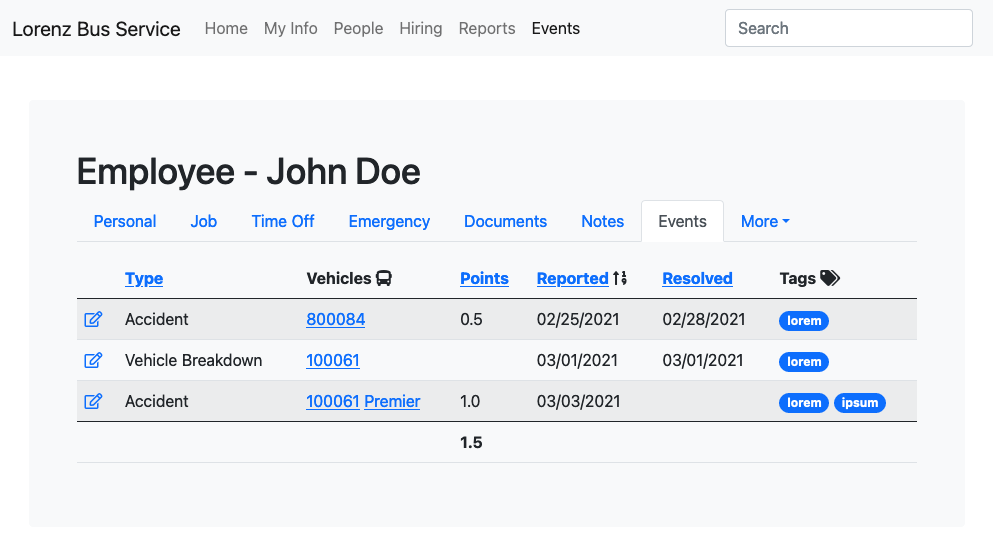
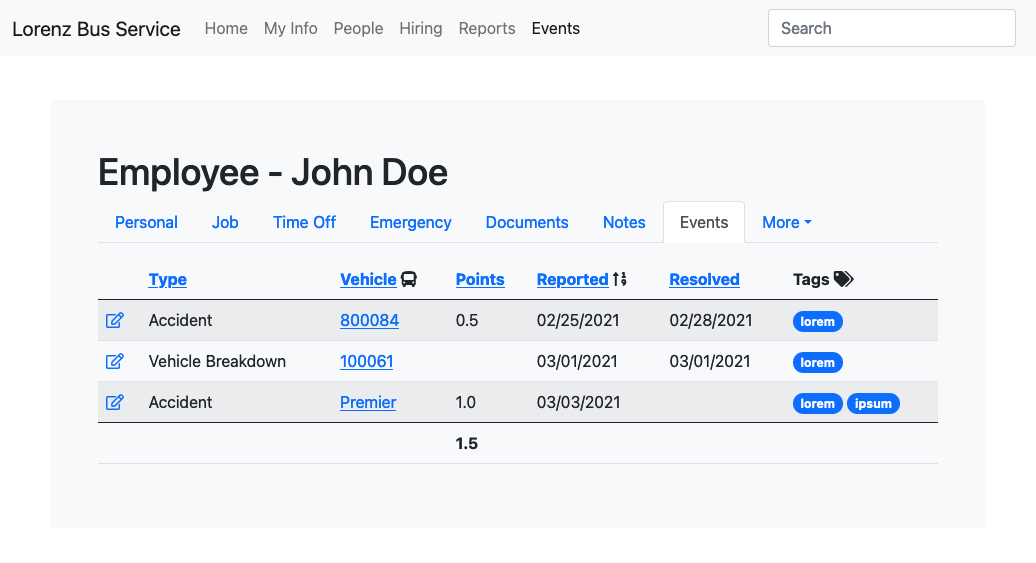
making vehicles column sigular adidng sorting to vehicles column

diff --git a/Employee.Event.html b/Employee.Event.html
@@ -73,7 +73,7 @@
               <tr>
                 <th scope="col"></th>
                 <th scope="col"><a href="">Type</a></th>
-                <th scope="col">Vehicles <i class="fas fa-bus"></i></th>
+                <th scope="col"><a href="">Vehicle</a> <i class="fas fa-bus"></i></th>
                 <th scope="col"><a href="">Points</a></th>
                 <th scope="col"><a href="">Reported</a> <i class="fas fa-sort-numeric-up"></i></th>
                 <th scope="col"><a href="">Resolved</a></th>
@@ -107,7 +107,7 @@
                 <td><a href="/events/101"><i class="far fa-edit"></i></a></td>
                 <td>Accident</td>
                 <td>
-                  <a href="/vehicles/100061">100061</a>
+                  <!-- <a href="/vehicles/100061">100061</a> -->
                   <a href="/vehicles/100061">Premier</a>
                 </td>
                 <td>1.0</td>
